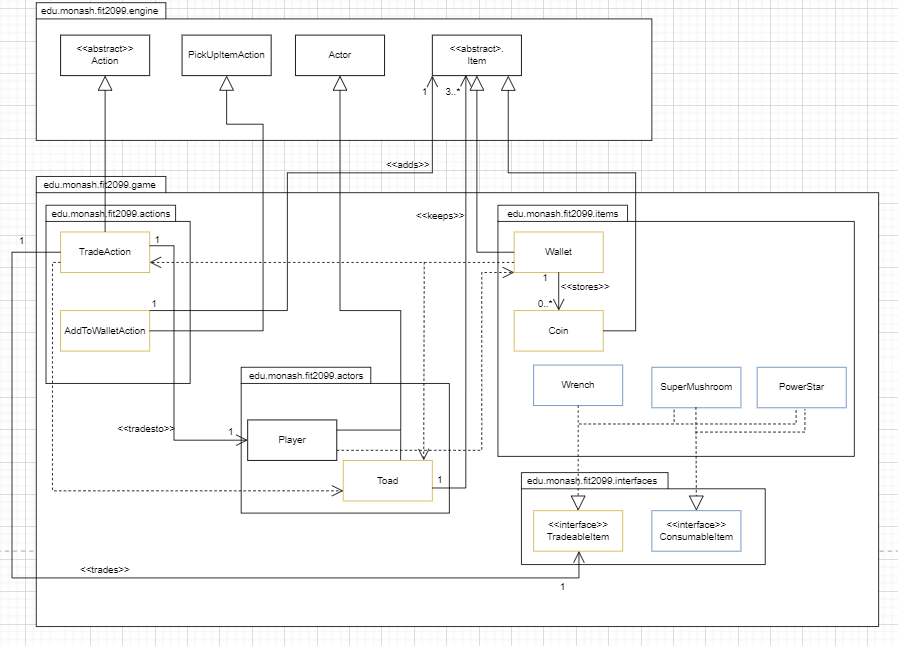
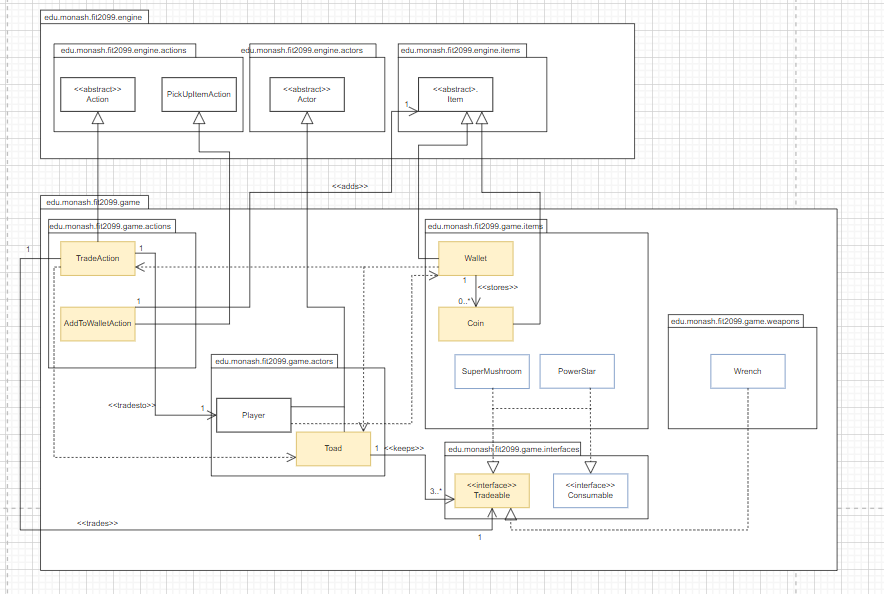
REQ7 class reponsibilities header change, some filenames changed, REQ5,6,7 diagrams updated.

diff --git a/design-docs/REQ7_class_responsibilities.md b/design-docs/REQ7_class_responsibilities.md
@@ -1,4 +1,4 @@
-#### REQ 6 CLASS RESPONSIBILITIES 
+#### REQ 7 CLASS RESPONSIBILITIES 
 
 Player class has added attributes and methods.
 ResetGameAction is a new class.
